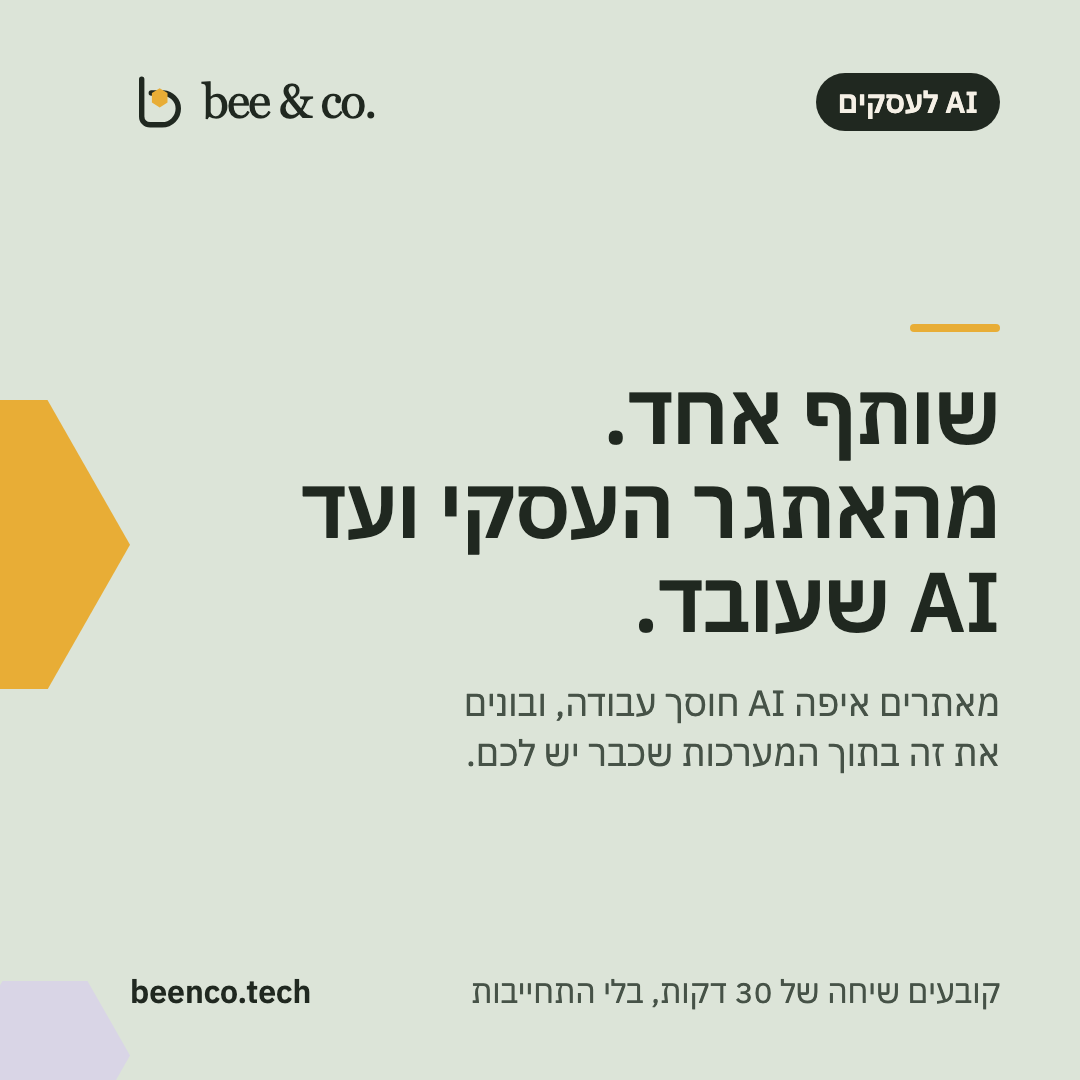
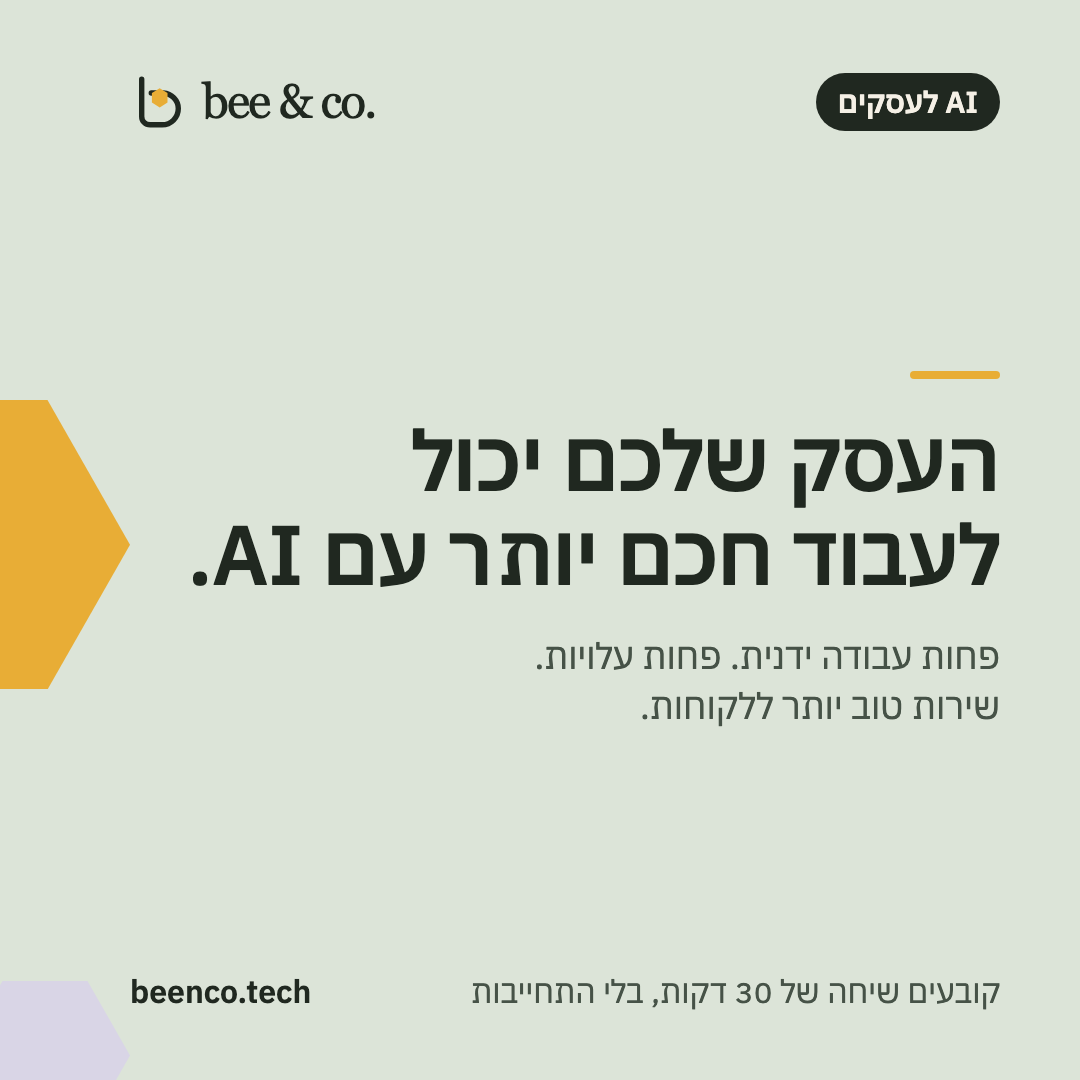
Ads: refresh the general campaign wording to the new home page, with AI
- Google "AI for business" ad: the "end to end" / "one partner" lines
  replaced with "AI לעסקים: לעבוד חכם יותר", "פחות עבודה ידנית עם AI",
  "שירות טוב יותר ללקוחות עם AI" and a work-smarter description.
  google-ads-editor-business-ad.csv holds only this ad (ADS_ONLY=1), to add
  it beside the live one without touching campaign settings.
- Meta "business – headline": headline, text and banner say
  "העסק שלכם יכול לעבוד חכם יותר עם AI", with the home support line.
- make-ad-images: a domain's headline ad may set its own banner line.

Changed region(s): [[0.275, 0.3361, 0.9472, 0.7333], [0.1833, 0.4889, 0.275, 0.55], [0.8556, 0.275, 0.9167, 0.3056]]

diff --git a/marketing/ads/README.md b/marketing/ads/README.md
@@ -4,7 +4,7 @@ Everything here is created **paused**. Nothing spends money until you review it 
 
 | File | What it is |
 |---|---|
-| `google-ads-editor.csv` | Three Google Search campaigns (accounting, distribution, AI for business): ad group, keywords, negative keywords, one responsive search ad each. `google-ads-editor-business.csv` is the AI for business campaign alone, for importing it without re-adding the other two campaigns' ads |
+| `google-ads-editor.csv` | Three Google Search campaigns (accounting, distribution, AI for business): ad group, keywords, negative keywords, one responsive search ad each. `google-ads-editor-business.csv` is the AI for business campaign alone, for importing it without re-adding the other two campaigns' ads. `google-ads-editor-business-ad.csv` is only its responsive search ad (refreshed 2026-11-23 to the new home wording): import it to add the new ad beside the live one, then pause the old ad. Build with `ONLY=business ADS_ONLY=1 node scripts/make-ad-files.mjs` |
 | `meta-manual-setup.md` | Every field of the 12 Meta ads, to create them by hand in Ads Manager (new ad accounts can't publish imported ads) |
 | `meta-upload/` | **What you import into Meta**: `meta-ads-import.csv` plus the 12 square banners it names (Meta matches them by file name). Built by `make-ad-files.mjs` from Meta's own template (`scripts/meta-import-columns.json`) |
 | `meta-ads-import.csv` | Three Facebook/Instagram traffic campaigns (accounting, distribution, AI for business), four ads each: the landing-page headline and three hooks |

diff --git a/marketing/ads/meta-manual-setup.md b/marketing/ads/meta-manual-setup.md
@@ -102,8 +102,8 @@ Ad set name: **AI business – Israel 30-65**. Create the first ad, then **Dupli
 
 - **Ad name:** business – headline
 - **Image:** `marketing/ads/meta-upload/business-headline-square.png`
-- **Primary text:** רוצים AI בעסק ולא בטוחים מאיפה להתחיל? אנחנו מאתרים איפה AI חוסך עבודה, בונים בתוך המערכות שכבר יש לכם ודואגים שהצוות באמת משתמש. שיחה של 30 דקות עם ערן נחום, בלי התחייבות.
-- **Headline:** AI בעסק, מקצה לקצה
+- **Primary text:** העסק שלכם יכול לעבוד חכם יותר עם AI: פחות עבודה ידנית, פחות עלויות ושירות טוב יותר. מאתרים איפה הולכים זמן וכסף, ובונים AI שעושה את העבודה החוזרת בתוך המערכות שכבר יש לכם. שיחה של 30 דקות עם ערן נחום, בלי התחייבות.
+- **Headline:** העסק שלכם יכול לעבוד חכם יותר עם AI
 - **Website URL:** https://beenco.tech/?utm_source=facebook&utm_medium=paid&utm_campaign=business-w1&utm_content=headline
 
 ### business – hook-tools
